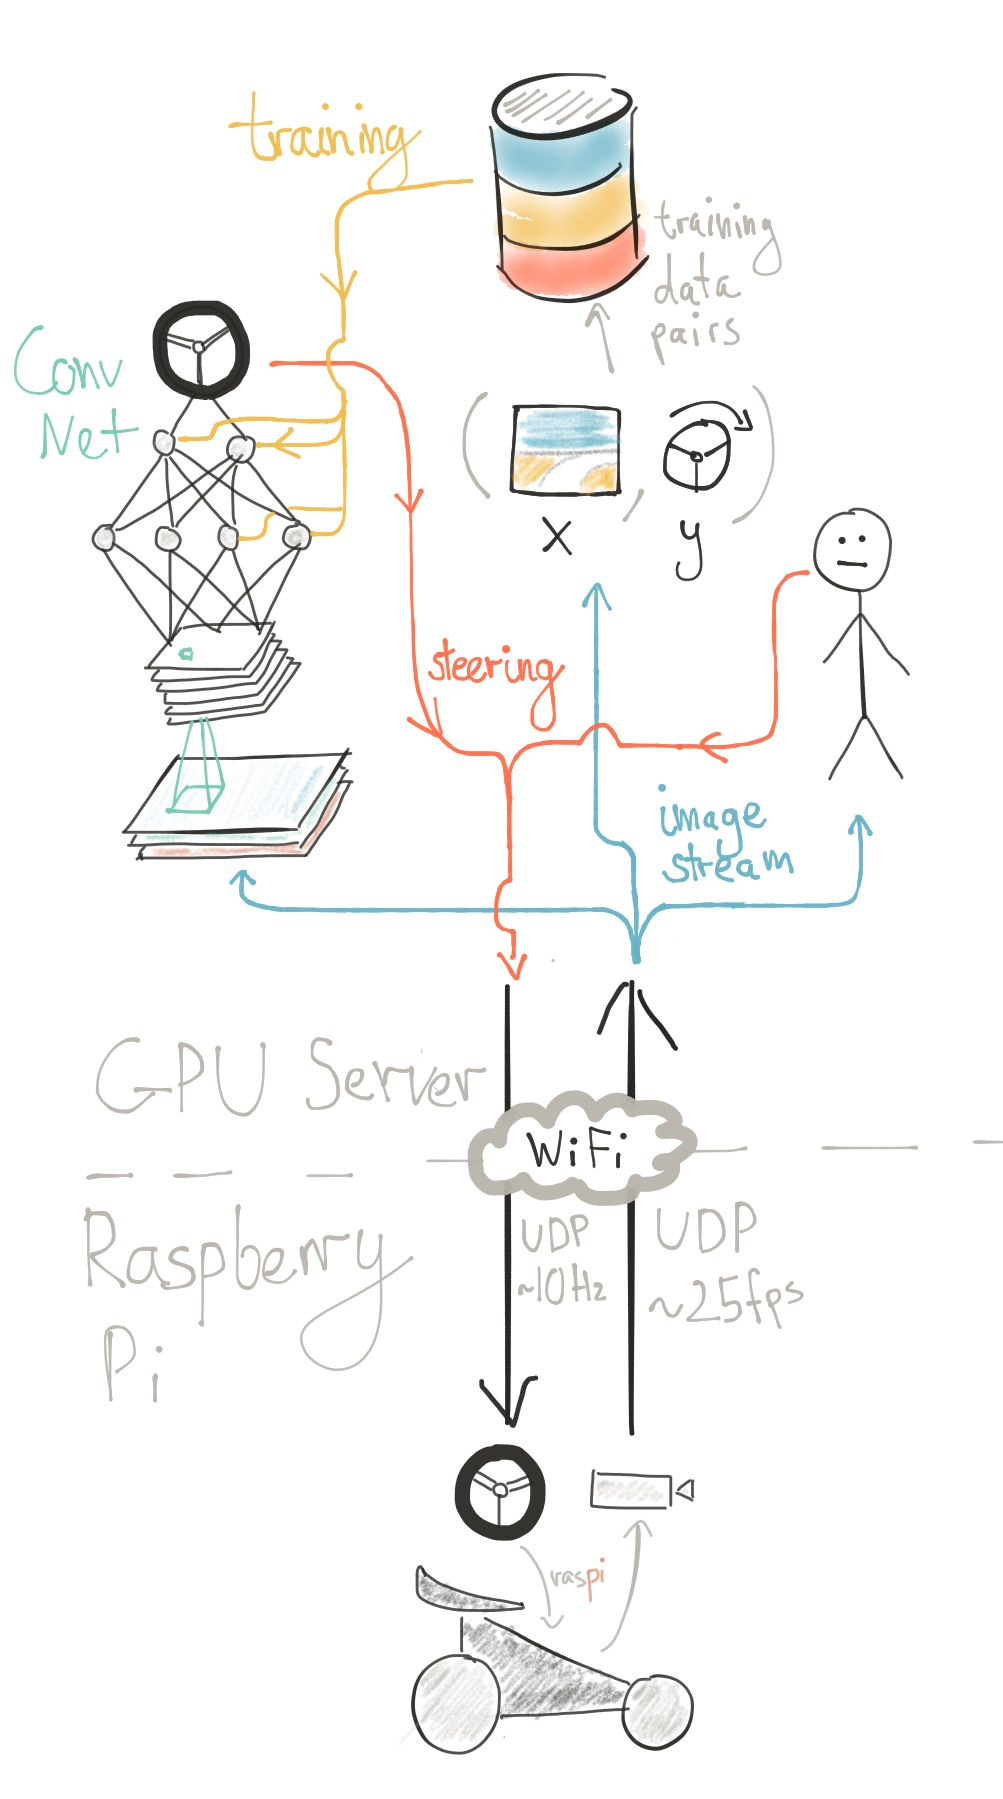
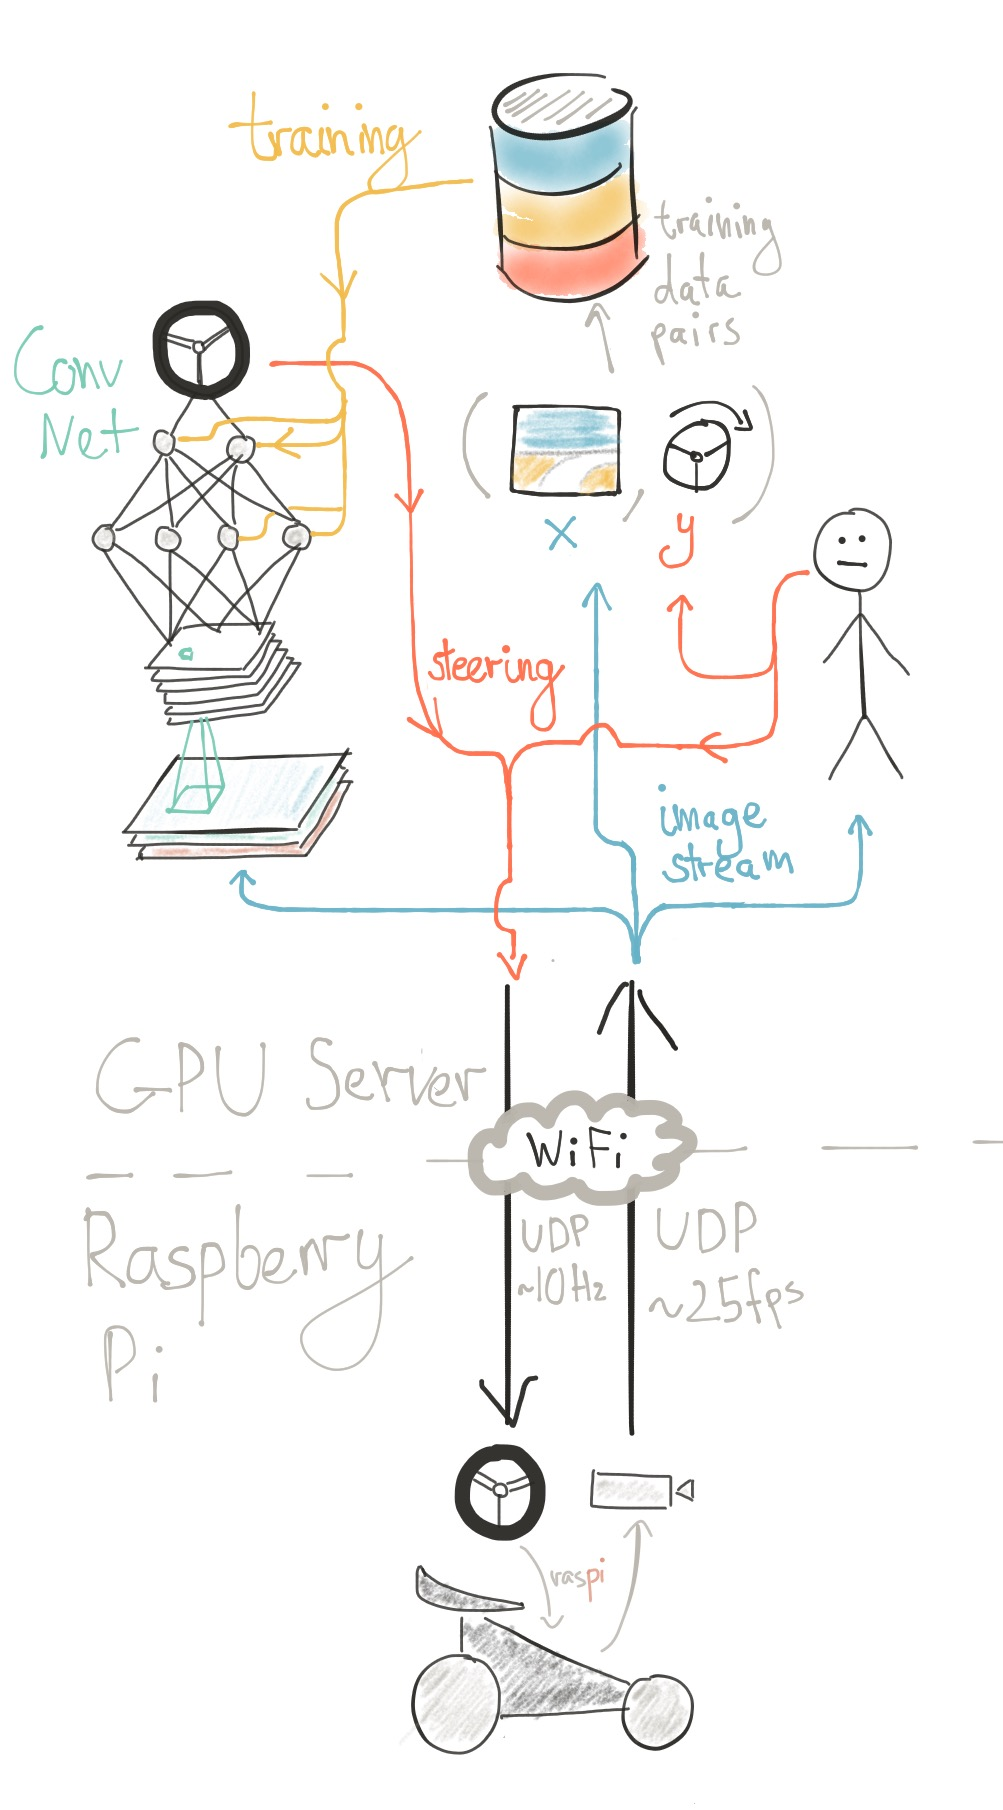
More content

diff --git a/car.html b/car.html
@@ -872,7 +872,7 @@ This is how it looks when you (badly) drive the car around the track in the even
 <div>
 We have implemented ConvNet-based behavioral cloning system that
 steers the car.
-It is a variation of widely used Nvidia implementation.
+It is a variation of a widely used Nvidia implementation.
 </div>
 <br><br>
 
@@ -896,25 +896,173 @@ The inspiration came from many places:
 <br><br>
 
 <div>
-Different thing is that Nvidia has 3 cameras which enable to gather 3
-trajectories in one goal, especially trajectories around the most optimal one.
-This is pretty big problem in behavioral clonging
+As shown in the diagram at the top of the blog post, the system that we use
+implements behavioral cloning. Based on a dataset of pairs <b><i> (image, steering)
+</b></i> sampled from a human driving record, we learn to predict <b><i> steering
+</b></i> from <b><i> image from camera </b></i>.
+This is done by using a convolutional neural network.
 </div>
 <br><br>
 
 <div>
-In our case it is kind ok, because we have less general problem (only so many
-tracks you can build around house), the track we follow is clearer and has less
-variations than real-life road lanes and we have significant variance over
-consecutive runs (we have more runs over the same area of track with a lot more
-variance than in the case of real life car).
+There are good resources galore on deep learning / neural nets online, so I won't go into
+detail how this was implemented. Instead, I will focus on explaining 
+differences between our and Nvidia's approches.
 </div>
 <br><br>
 
 <div>
-You can see that it is not perfect, doesn't stay inside of the track, but wit
+First of all, in our case the steering is binary.  In a typical real-world
+self-driving car implementation you would gain control over steer-by-wire
+system done by car manufacturer.  This usually means you gain control
+over pretty precise actuators that allow you to set the steering angle with
+consistency and precision.  This was not the case in our model. Currently we
+only have three steering states - steer full left, steer full right or no
+steering.  Additionally, when returning from full steer to the neutral
+position, the mechanism is often not completely accurate and returns only to
+somewhat-neutral position with bias to one side that is noticeable when the car
+goes fast.
+</div>
+<br><br>
+
+<div>
+Secondly, in our implementation we only use one camera, where Nvidia's
+implementation uses three cameras that are generally forward facing,
+but at slightly different angles.
+This trick is done to get rid of a problem specific to behavioral learning.
+The problem is overrepresentation of idealized trajectories in the training data.
+If you consider a person driving a car on a road, even on a closed-off private road,
+the samples from the car going off-road, or near-crashing and recovering in the
+last moment are extremely rare compared to calm driving in the middle of the world.
+However, for the algorithm both cases are as important as the other.
+The self driving systems needs to know what to do when it starts going away from middle
+of the track.
+</div>
+<br><br>
+
+<div>
+<a href='img/car/behavioral_cloning_problem.jpg'><img src='img/car/behavioral_cloning_problem_small.jpg'></a>
+</div>
+<br><br>
+
+<div>
+<i>I copy-pasted this image from
+<a href="http://rll.berkeley.edu/deeprlcourse/f17docs/lecture_2_behavior_cloning.pdf">slides</a>
+of Sergey Levine for one of the beginning lectures of
+<a href="http://rll.berkeley.edu/deeprlcourse/">
+Berkeley CS294-112: Deep Reinforcement Learning</a>.
+- an incredibely high-quality online course generously offered for free by this university.</i>
+</div>
+<br><br>
+
+<div>
+You can see in this image that during the training, we have explored the black trajectory.
+Due to inherent randomness, we slightly diverging from the most well-known
+trajectory, for example the car steers a bit more to the right then usually.
+The correct response would be to correct and go back to the middle of the
+track, but there is no data like this in the training dataset (or there is
+but it is not sufficiently frequent to be represented in the machine learning).
+</div>
+<br><br>
+
+<div>
+The solution to this is to build a distribution of cost (and therefore, of
+wanted behaviours) around the optimal trajectory:
+</div>
+<br><br>
+
+<div>
+<a href='img/car/distribution_over_trajectories.jpg'><img src='img/car/distribution_over_trajectories_small.jpg'></a>
+</div>
+<br><br>
+
+<div>
+<i>Image, again courtesy to UC Berkeley, Prof Sergey Levine</i>.
+</div>
+<br><br>
+
+<div>
+There are several remarks that can be made about making such a
+distribution.
+</div>
+<br><br>
+
+<div>
+One could try to <li> Gather <b>a lot</b> more data, especially taking care to sample
+trajectories that are away from the optimal trajectory. In case of the car it
+could be turning off recording, steering slightly off the center of the road,
+turning recording back on, correcting the steering back to the center. Another
+idea would be to drive over the same piece of road many times, taking care to
+drive a bit to the left, than a bit to the right, then more to the right etc.
+As you can see, these solutions are doable, but not extremely practical, so it
+is not always there is an easy way to just gather the data.
+</div>
+<br><br>
+
+<div>
+One could consider the trick that Nvidia has done. They have set up two cameras at slight
+angles to left and right
+in addition to the central forward facing one.
+Then they correct for this in the steering commands that are recorded
+as the pair for that sideways facing image.
+So for example if they are driving straight forward, the right facing
+camera will record a picture as if the car was going to the right of the
+road, and a steering correction of the same angle to the left would be added
+to the current (fully straight steering).
+This will tell help the machine learning algorithm understand that 
+it needs to steer left when it sees this image.
+</div>
+<br><br>
+
+<div>
+** Make a picture for Nvidia adjustment **
+</div>
+<br><br>
+
+<div>
+In our case the problem is less severe than in the case of the real self-driving car.
+This is because:
+<ul> 
+<li>
+we have less general problem. The variety of tracks that we can build around the house 
+is significantly smaller than the variety of real roads, especially when you 
+take into consideration the spectrum of possible lighting conditions.
+Our track is white pieces of paper, which is very clearly visible and 
+similar to itself under a variety of conditions.
+<li> the tracks that we train on are shorter so we can run the car
+over each piece of road hundreds of times in a day or so. Imagine doing that 
+for each piece of road in Europe or US.
+<li> We have significant variations of runs due to lack of precision of our
+actuators. Driving in the small car world is a lot more dynamic,
+the turns are a lot sharper and we can afford to crash for free.
+Check out driving video above to see how quick everything happens.
+</ul>
+</div>
+<br><br>
+
+<div>
+In general the system works perfect on the track
+</div>
+<br><br>
+
+<div>
+The performance doesn't really generalize to more complicated, tighter
+track. We will run some new training on this 
+</div>
+<br><br>
+
+<div>
+You can see that it is not perfect, doesn't stay inside of the track, but with the
 current controls it may be beyond possible.  Should be possible with car that
 has more precise and possibly non-binary left-right steering.
+</div>
+<br><br>
+
+<div>
+The story of how this system is produced
+(you should be patient)
+Day to day both of us work in research, and 
+we know that it should like this.
 </div>
 <br><br>
 
@@ -1021,9 +1169,7 @@ Tested well only around one turn track.
 TODO:
 * Machine learning
 * final car pictures
-* describe the cool steering system from first car
 * flesh out plans for future
-* Good picture for 3d printed camera holder
 </div>
 <br><br>
 
